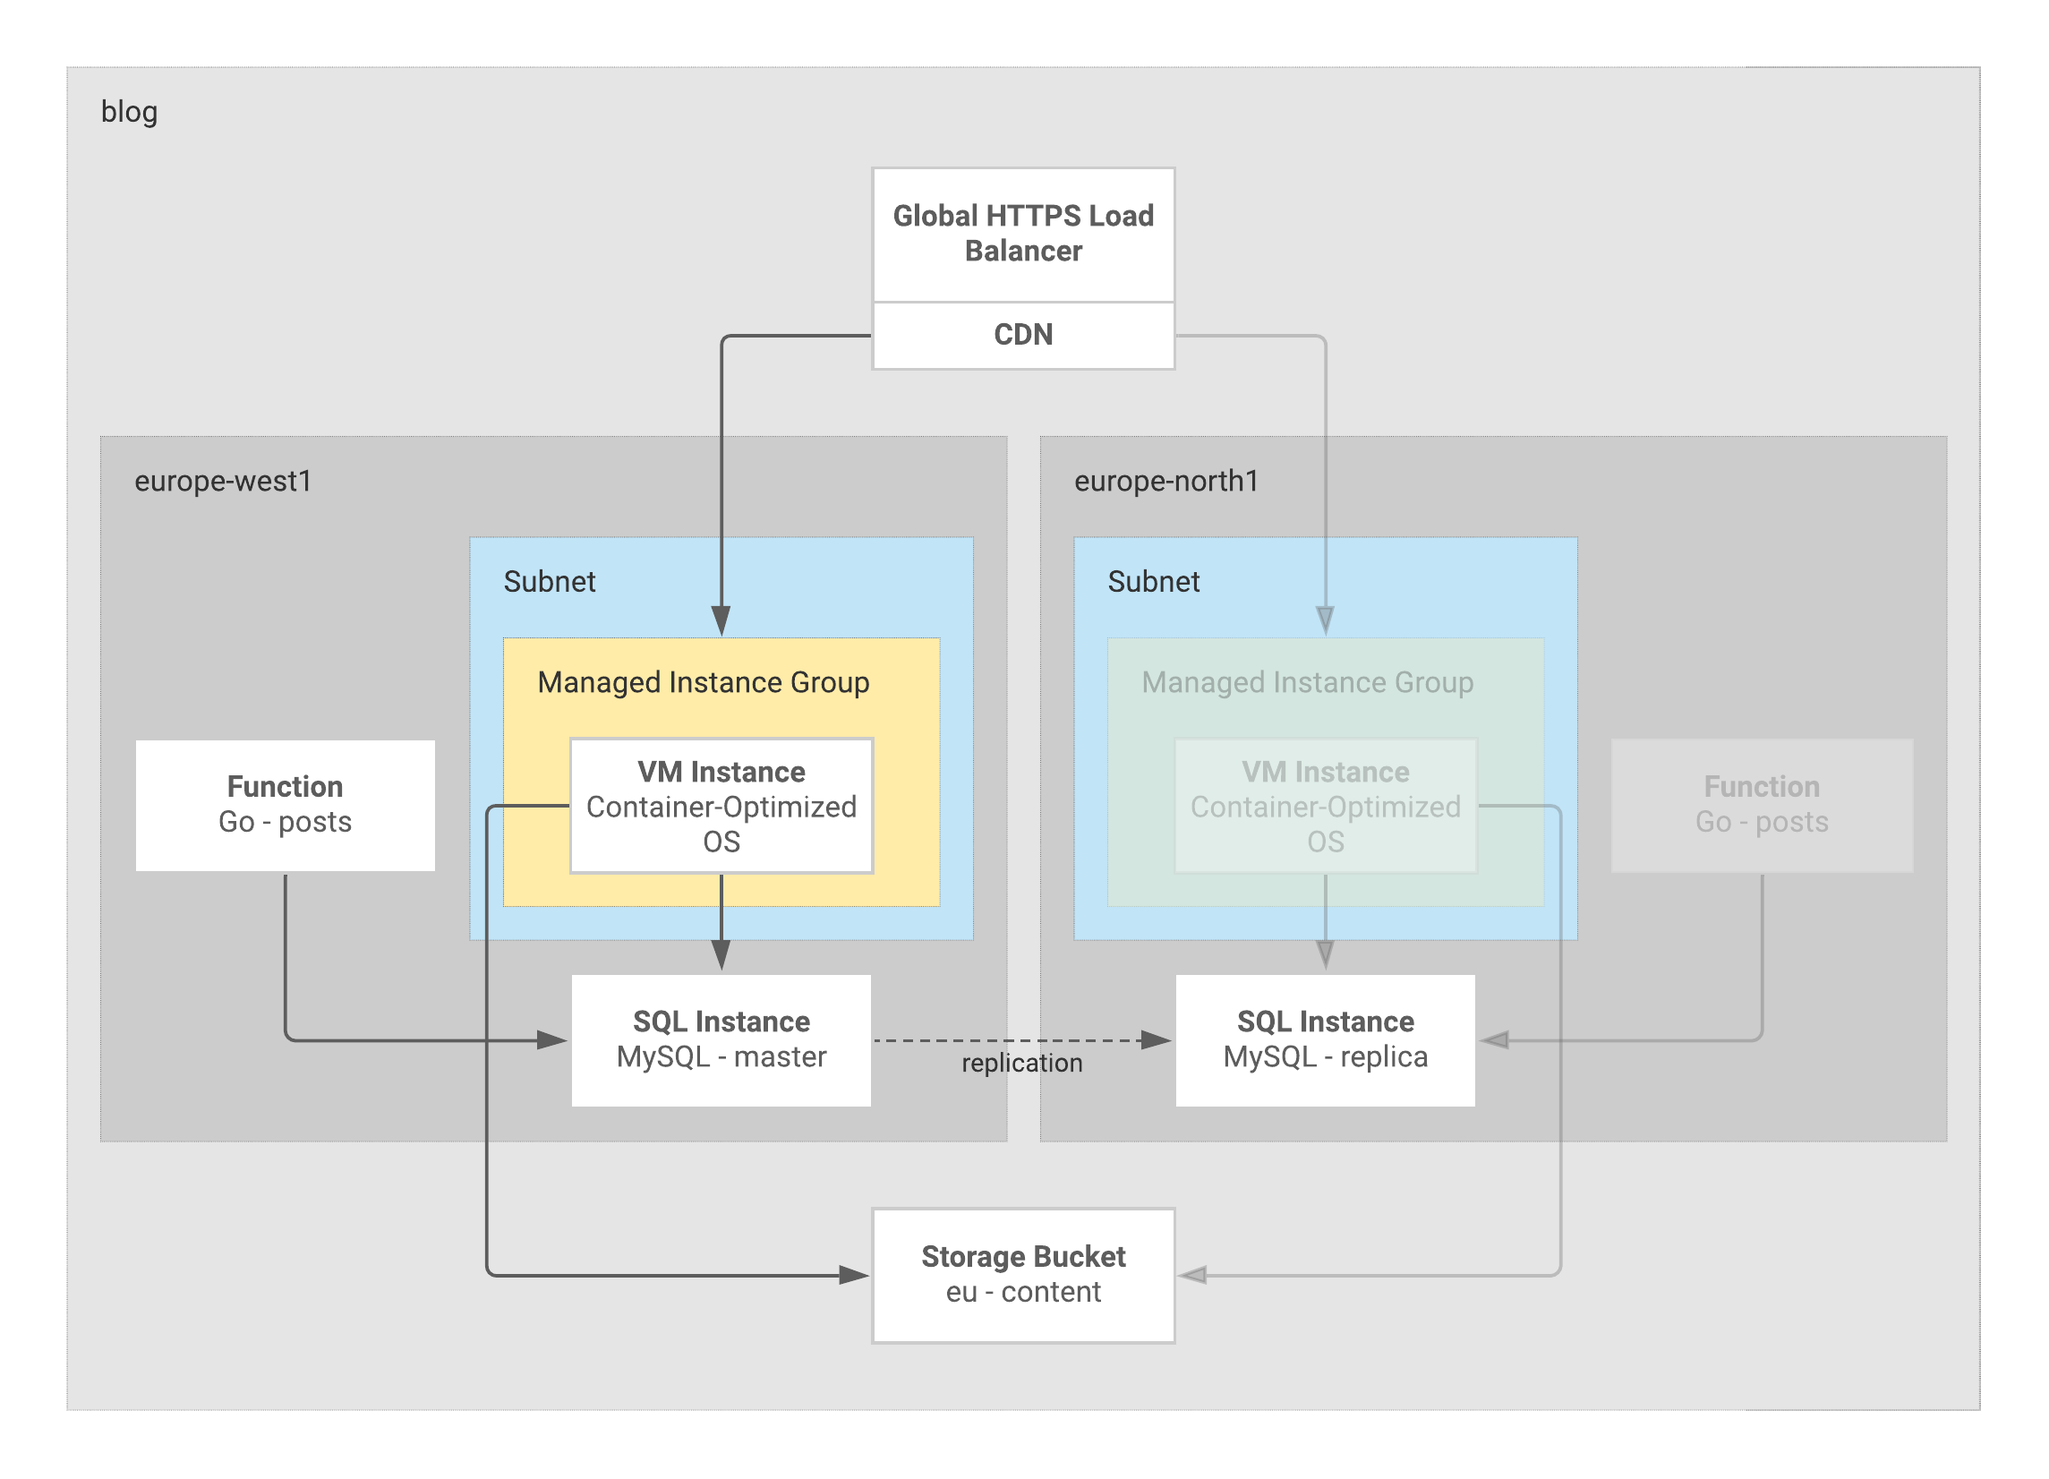
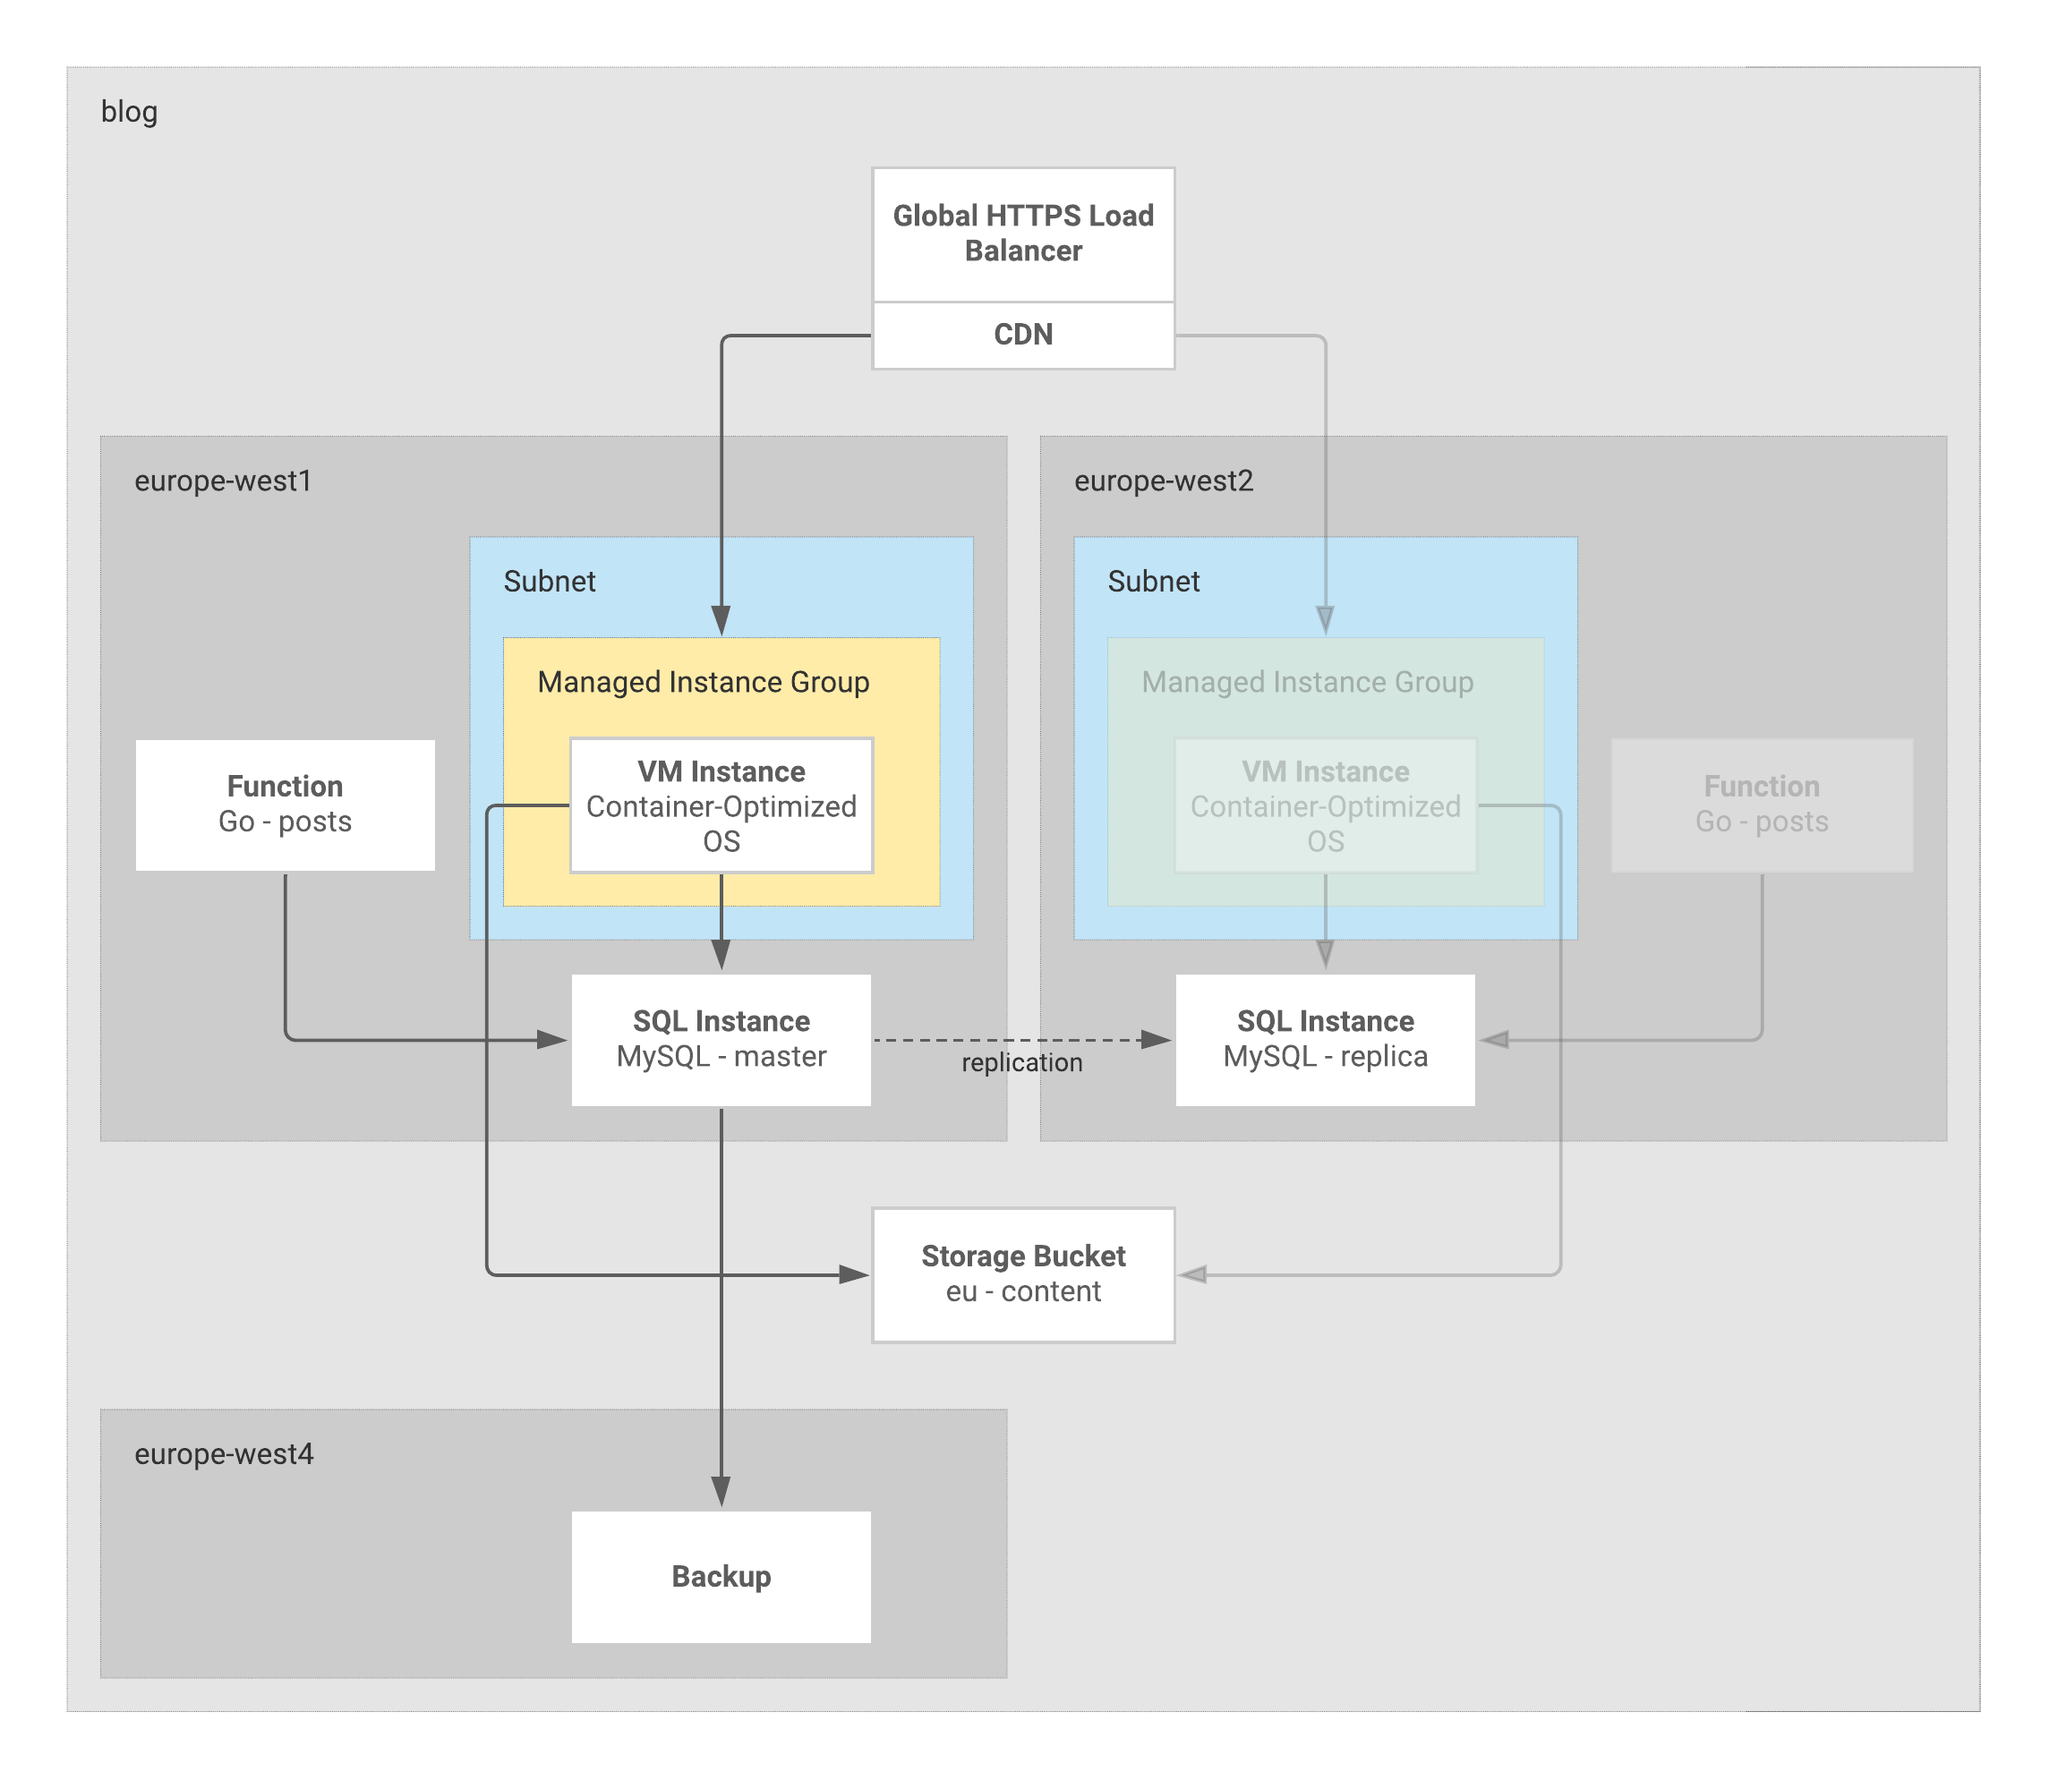
Add information

diff --git a/README.md b/README.md
@@ -24,61 +24,63 @@ delete all posts at once using a serverless function.
 
 ## Solution
 
-The blog includes four different environments that are all deployed in the same project. 
+The blog includes four different environments deployed in the same project.
 The environments are development (dev), testing (test), staging (stage), and production (prod).
-Every environment is exactly the same, excluding the machine type and SQL instance tier for 
-the staging and production environment to save costs.
+Every environment is precisely the same, excluding the machine type and SQL instance tier for
+the staging and production environments to save costs.
 
-Ghost doesn't support load-balanced clustering or multi-server setups of any description,
+*Ghost doesn't support load-balanced clustering or multi-server setups of any description,
 as described in the FAQ section of the Ghost website: "The recommended approach to achieve scale, performance &
 high availability is to put a cache and/or CDN in front of your blog; pages generated by Ghost are essentially
-static so there should be very little traffic hitting your Ghost server with a well configured cache."
+static, so there should be very little traffic hitting your Ghost server with a well-configured cache."*
 
 ![Architecture](https://github.com/smorenburg/drone-shuttles-blog/blob/main/images/architecture.png?raw=true)
 
-Ghost is deployed as a container on a single virtual machine instance running Container-Optimized OS 
-which is an operating system optimized for running containers. The virtual machine instance is configured using cloud-init.
+Ghost is deployed as a container on a single virtual machine instance running Container-Optimized OS, an operating 
+system optimized for running containers. The virtual machine instance is configured using cloud-init.
 
-The virtual machine instance is deployed using a regional managed instance group which supports autohealing and rolling updates.
-Whenever the current zone goes down, the instance is recreated in another zone, achieving regional high-availability.
-Unfortunately a zonal failure does include some downtime until the failed instance is recreated, this is because of
-the Ghost architecture which doesn't support load-balanced clustering or multi-server setups.
+The virtual machine instance is deployed using a regional managed instance group that supports autohealing and 
+rolling updates. Whenever the current zone goes down, the instance is recreated in another zone, achieving regional 
+availability. Unfortunately, a zonal failure does include some downtime until the failed instance is recreated; 
+the Ghost architecture doesn't support load-balanced clustering or multi-server setups.
 
 Whenever a new container image is created, the image is deployed using a rolling update mechanism. A second instance is
 created and will receive all traffic when healthy. The first instance is shut down and removed.
 
-The traffic is managed by a premium global HTTPS load balancer including a managed SSL certificate using a (temporary) 
+The traffic is managed by a premium global HTTPS load balancer, including a managed SSL certificate using a (temporary)
 nip.io domain and a CDN to accommodate large volumes of traffic and low latency around the globe.
 
-The data is persisted in a high-available replicated Cloud SQL instance running MySQL 8.0 using the Cloud SQL Auth Proxy, 
-deployed as a container on the virtual machine instance. The Cloud SQL Auth proxy automatically encrypts traffic to and from 
-the database using TLS with a 128-bit AES cipher. The master instance is running in the europe-west1 region, located in Belgium, 
-whereas the replica instance is running in the europe-north1 region, located in Finland. The database backups are stored in 
-the europe-west4 region, located in The Netherlands, to accommodate multiple disaster recovery scenario's.
+The data is persisted in a high-available replicated Cloud SQL instance running MySQL 8.0 using the Cloud SQL Auth Proxy,
+deployed as a container on the virtual machine instance. The Cloud SQL Auth proxy automatically encrypts traffic to and 
+from the database using TLS with a 128-bit AES cipher. The master instance is running in the europe-west1 region, 
+located in Belgium, whereas the replica instance is running in the europe-north1 region, located in Finland. 
+The database backups are stored in the europe-west4 region, located in The Netherlands, to accommodate multiple disaster 
+recovery scenarios.
 
-Whenever there's a complete regional failure the virtual machine instance can be deployed in the europe-north1 region
-using the MySQL replica which is read-only by default, with the option to promote the replica instance to a 
-single master instance for read-write operations. The subnet for europe-north1 is already present.
+The uploaded content is placed in a storage bucket with multi-region availability within Europe. By persisting the data 
+and content the Ghost container is entirely stateless.
 
-The uploaded content is placed in a storage bucket with multi-region availability within Europe. 
+The function to delete all the posts is deployed in europe-west1 and written in Go.
 
-By persisting the data and content the Ghost container is completely stateless.
+Whenever there's a complete regional failure, the virtual machine instance and function can be deployed in the 
+europe-west2 region using the MySQL replica, which is read-only by default, with the option to promote the replica 
+instance to a single master instance for read-write operations. The subnet for europe-north1 is already present.
 
 ![CI/CD](https://github.com/smorenburg/drone-shuttles-blog/blob/main/images/cicd.png?raw=true)
 
-The deployment is completely automated by using Cloud Build, Artifact Registry, Terraform and Bash. 
-The CI/CD pipeline is seperated using multiple triggers and a combination a commit hashes and tags.
-The Terraform code and Dockerfile a checked by running Checkov during CI to make sure the best practices are included.
-And container scanning is enabled for the registry to scan for vulnerabilities. Every deployment needs manual approval which
-can be disabled.
+The deployment is automated using Cloud Build, Artifact Registry, Terraform, and Bash.
+The CI/CD pipeline is separated using multiple triggers and a combination of commit hashes and tags.
+The Terraform code and Dockerfile are checked by running Checkov during CI to ensure the best practices are included.
+And container scanning is enabled for the registry to scan for vulnerabilities. Every deployment needs manual approval, 
+which can be disabled.
 
 All the assigned permissions follow the principle of least privilege.
 
 The blog is designed for observability. All the metrics and logs are available through the Cloud Operations suite.
 There are three SLOs and an uptime check configured:
 
-- 90% of the request are below 250 ms latency 
-- 99% of the requests are below 500 ms latency 
+- 90% of the request are below 250 ms latency
+- 99% of the requests are below 500 ms latency
 - 99% of the requests are successful (availability)
 
 ## Prerequisites
@@ -92,8 +94,8 @@ Before deploying the blog, there are some prerequisites to fulfill.
 
 ## Up and running
 
-The following steps are required to prepare the environment and get the blog up and running. The easiest way to execute the
-commands is using Cloud Shell, which is already authenticated.
+The following steps are required to prepare the environment and get the blog up and running. The easiest way to execute
+the commands is using Cloud Shell, which is already authenticated.
 
 **Step 1:** Set the (local) environment variables. The project id variable is used in some commands.
 
@@ -129,8 +131,8 @@ for api in "${apis[@]}"; do
 done
 ```
 
-**Step 3:** Create the storage buckets. The storage buckets are used for the Terraform state separated per environment and the
-build artifacts.
+**Step 3:** Create the storage buckets. The storage buckets are used for the Terraform state separated per environment
+and the build artifacts.
 
 ```bash
 gsutil mb -l eu -b on gs://${PROJECT_ID}-dev-tfstate
@@ -140,8 +142,8 @@ gsutil mb -l eu -b on gs://${PROJECT_ID}-prod-tfstate
 gsutil mb -l eu -b on gs://${PROJECT_ID}-builds
 ```
 
-**Step 4:** Create the artifact registries. The 'dev' registry is for the development container images, the 'test' registry
-for the testing container images, and the 'release' registry for both the staging and production container images.
+**Step 4:** Create the artifact registries. The 'dev' registry is for the development container images, the 'test'
+registry for the testing container images, and the 'release' registry for the staging and production container images.
 
 ```bash
 gcloud artifacts repositories create dev \
@@ -204,7 +206,8 @@ for role in "${roles[@]}"; do
 done
 ```
 
-**Step 7:** Add the source repository. This GitHub repository needs to be added to Cloud Build. Complete the following steps to connect to GitHub:
+**Step 7:** Add the source repository. This GitHub repository needs to be added to Cloud Build. Complete the following 
+steps to connect to GitHub:
 
 1. Open the **Triggers** page in the Google Cloud Console.
 2. Select your project and click **Open**.
@@ -212,7 +215,7 @@ done
 4. Select **GitHub (Cloud Build GitHub App)**.
 5. Click **Continue**.
 6. Authenticate to GitHub.
-7. From the list of available repositories, select the desired repository, then click **Connect**.
+7. Select the desired repository from the list of available repositories, then click **Connect**.
 8. Click **Done**.
 
 **Step 8:** Create the triggers. The triggers are created by importing the trigger YAML files located in `build/triggers`.
@@ -246,20 +249,49 @@ for trigger in "${triggers[@]}"; do
 done
 ```
 
-**Step 9:** Deploy the blog to the testing environment. The test-ci trigger is triggered on changes to the main branch, 
-with the option for manual invocation.
+**Step 9:** Deploy the blog to the testing environment. The `test-ci` trigger is triggered on changes to the main branch,
+with the option for manual invocation. The last trigger, `test-cd`, requires manual approval.
 
 ```bash
 gcloud beta builds triggers run test-ci --branch main
 ```
 
 **Step 10:** Access the blog using the Terraform output. Terraform outputs two URLs: `ghost_url` and `ghost_url_no_cache`.
-During the deployment the SSL certificate is assigned to the load balancer. The provisioning of the certificate can take some time
-(20 minutes), during the provisioning the blog is not accessible (returns an SSL error).
+During the deployment, the SSL certificate is assigned to the load balancer. The provisioning of the certificate can 
+take some time (20 minutes), during the provisioning, the blog is not accessible (returns an SSL error).
 
-**Step 11:** Call the function to delete all the posts. Because the function only accepts authenticated HTTP requests, 
+**Step 11:** Call the function to delete all the posts. Because the function only accepts authenticated HTTP requests,
 gcloud is used for the call.
 
 ```bash
 gcloud functions call test-posts-ew1-function-delete-all --region europe-west1
+```
+
+**Step 12:** Deploy version 1.0.0 to the staging environment. The `release-ci` trigger is triggered on new tags,
+with manual invocation options. The last trigger, `stage-cd`, requires manual approval.
+
+```bash
+gcloud beta builds triggers run release-ci --tag 1.0.0
+```
+
+**Step 13:** Access the blog using the Terraform output. Terraform outputs two URLs: `ghost_url` and `ghost_url_no_cache`.
+During the deployment, the SSL certificate is assigned to the load balancer. The provisioning of the certificate can 
+take some time (20 minutes), during the provisioning, the blog is not accessible (returns an SSL error).
+
+**Step 14:** Call the function to delete all the posts. Because the function only accepts authenticated HTTP requests,
+gcloud is used for the call.
+
+```bash
+gcloud functions call stage-posts-ew1-function-delete-all --region europe-west1
+```
+
+**Step 15:** Destroy the blog in the testing and staging environment. Destroying is done through two destroy triggers.
+The first `env-destroy-plan` plans to destroy and triggers `env-destroy`, which requires manual approval.
+
+```bash
+gcloud beta builds triggers run test-destroy-plan --branch main
+```
+
+```bash
+gcloud beta builds triggers run stage-destroy-plan --tag 1.0.0
 ```
